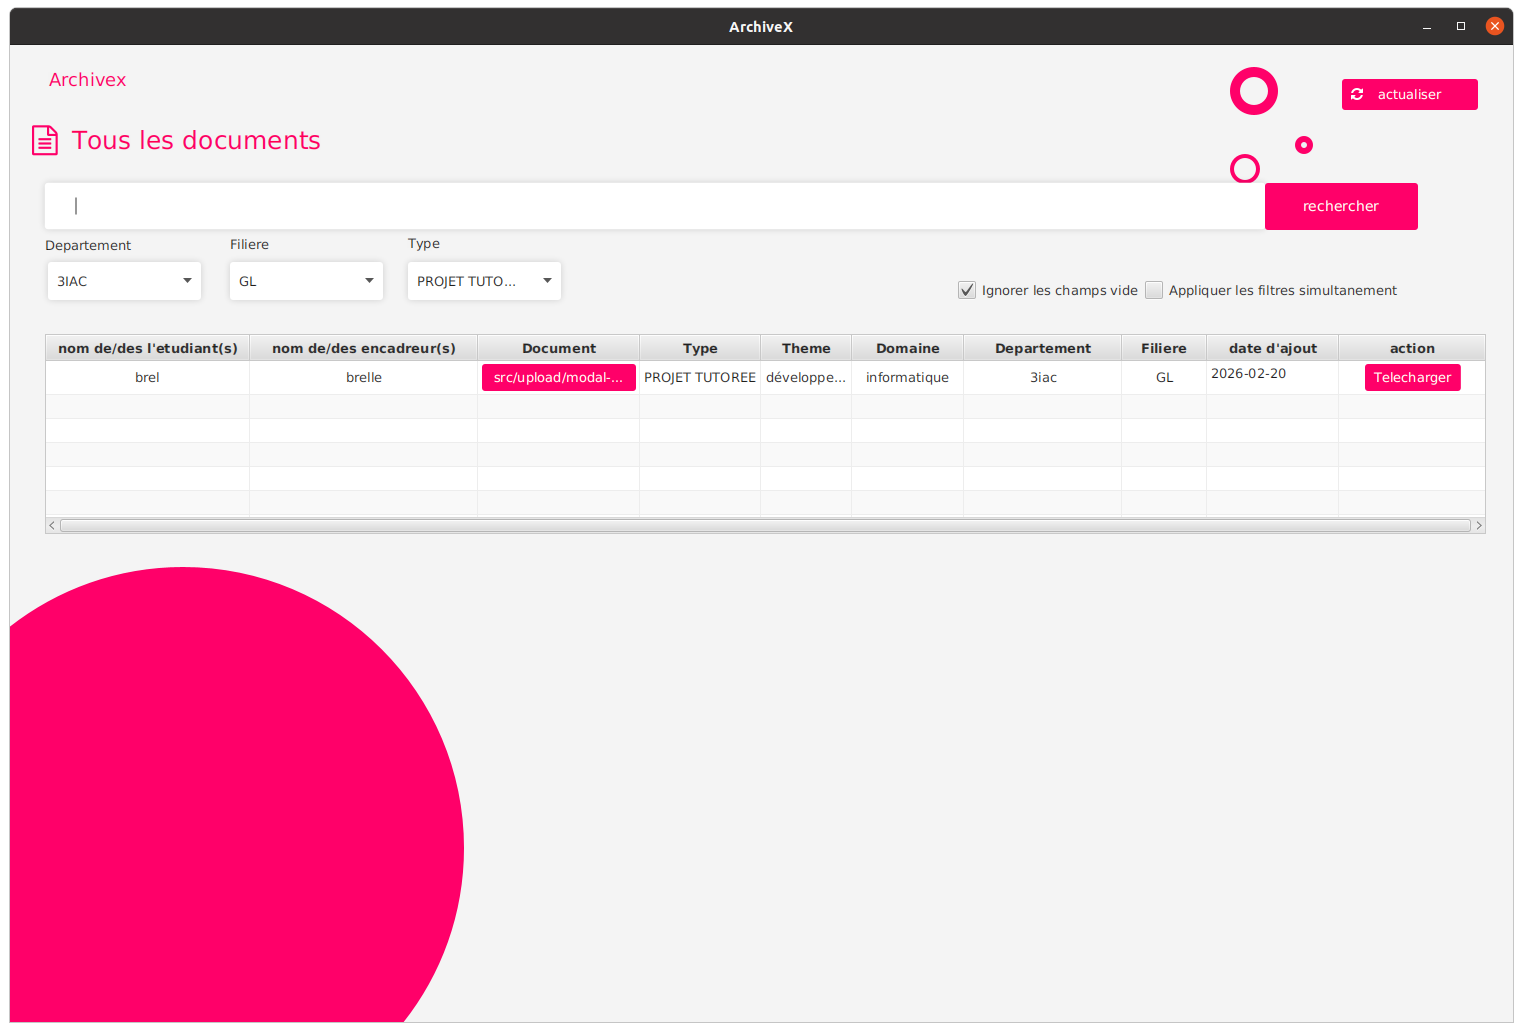
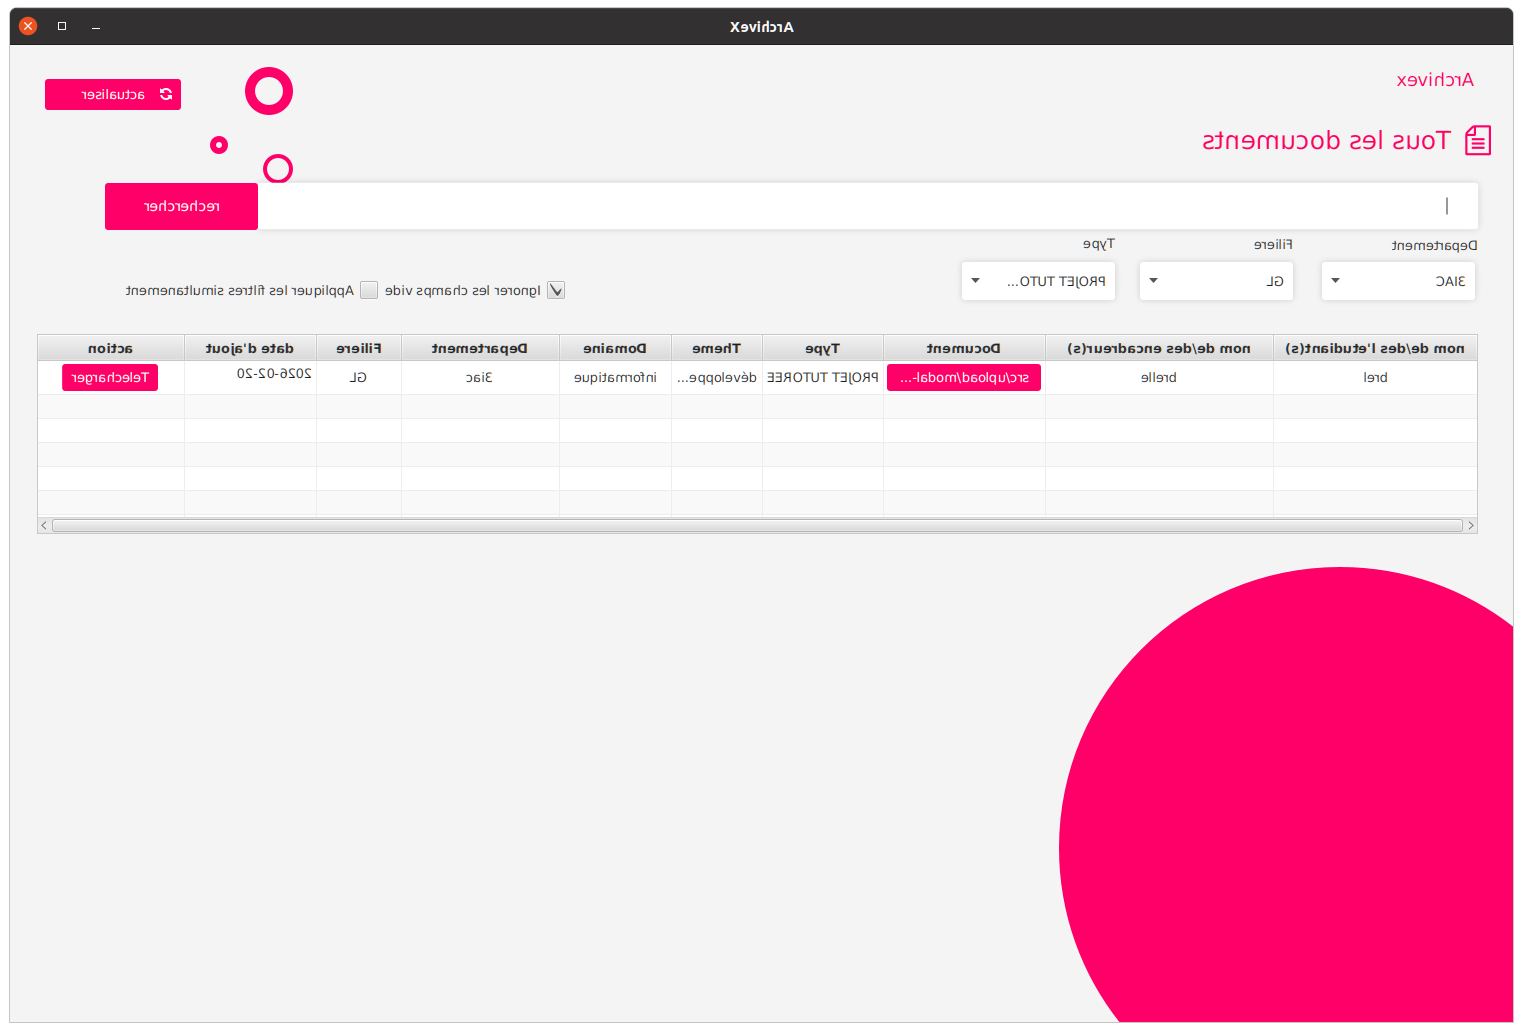
Added my portfolio to my projects

diff --git a/src/data/projects.ts b/src/data/projects.ts
@@ -4,6 +4,38 @@ import { faChartLine, faCode, faDatabase, faFire, faPanorama } from "@fortawesom
 
 export const projects:ProjectProps[] = [
     {
+        title: 'Mon portfolio',
+        color: '#2a5b69',
+        type: 'web',
+        imgUrl: [
+            require('../assets/images/portfolioFront.png'), 
+            require('../assets/images/portfolioBack.png'), 
+            require('../assets/images/portfolioLeft.png'), 
+            require('../assets/images/portfolioRight.png'), 
+        ],
+        description: "Découvrez mon expérience et mes projets informatiques : applications web, mobile (Flutter) et systèmes. Étudiant ingénieur à la recherche d'une alternance Full-stack | DevOps | IoT.",
+        url: 'https://brelnosse.com',
+        githubUrl: '',
+        skills: [
+            {
+                icon: faJs,
+                text: 'Typescript'
+            },
+            {
+                icon: faReact,
+                text: 'React.js'
+            },
+            {
+                icon: faNodeJs,
+                text: 'Node.js'
+            },
+            {
+                icon: faCss3,
+                text: 'CSS3'
+            },
+        ] 
+    },
+    {
         title: 'Miam',
         color: '#f5700a',
         type: 'web',
@@ -42,7 +74,8 @@ export const projects:ProjectProps[] = [
                 text: 'Chart.js'                
             },
         ] 
-    },    {
+    },    
+    {
         title: 'Thayipizza',
         color: '#e82a33',
         type: 'web',
